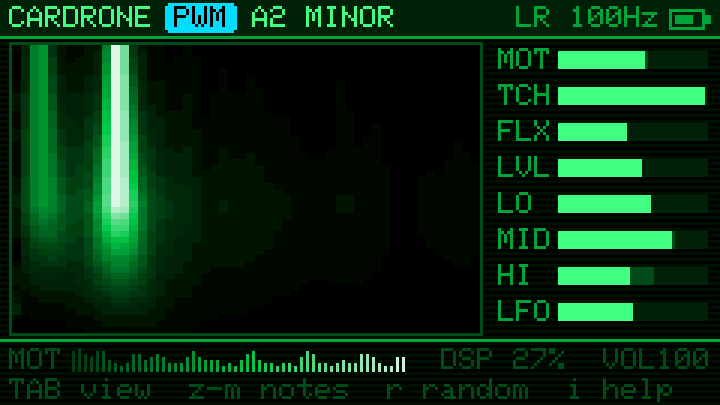
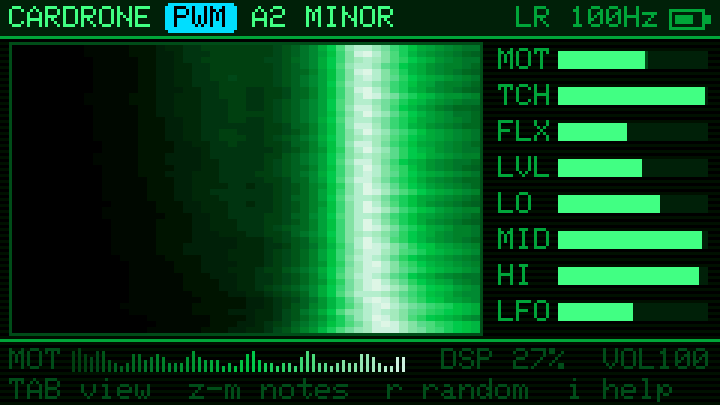
LoRa: wobble spectrum from 52 log-spaced bandpass filters (0.15-6 Hz), LO/MID/HI as its thirds
The 5 s DFT over 0.2-10 Hz lagged by seconds and spent most columns above where people
move the link; one shared scale let slow swells drown quick wobble. Now each column
reacts in ~0.2-2 s, quick columns are tilted up (x sqrt f), and HI (1.75-6 Hz) follows
walking within 0.5 s (host test).

diff --git a/src/csi.h b/src/csi.h
@@ -18,7 +18,10 @@ enum Src { S_MOT, S_PHS, S_FLX, S_RSSI, S_LO, S_MID, S_HI, S_LFO, NSRC };
 static const char* const SRC_NAME[NSRC] = {"MOT", "PHS", "FLX", "RSI", "LO", "MID", "HI", "LFO"};
 // LoRa mode: same slots, so the matrix and presets carry over (see level()).
 static const char* const SRC_NAME_LORA[NSRC] = {"MOT", "TCH", "FLX", "LVL", "LO", "MID", "HI", "LFO"};
-constexpr int LN = 256;             // LoRa wobble spectrum: the last 5 s of 50 Hz frames
+// LoRa wobble spectrum: one bandpass filter per waterfall column, log-spaced over the rates
+// people move a sub-GHz link at (breathing and swaying ... walking).
+constexpr float kWobLo = 0.15f, kWobHi = 6;  // Hz
+static inline float wobHz(int k) { return kWobLo * powf(kWobHi / kWobLo, k / (NSC - 1.f)); }
 constexpr float kLoraFloor = 0.5f;  // dB: wobble smaller than this never reads as full scale (RSSI steps are 0.5 dB)
 constexpr float kLvlRange = 6;       // dB away from the empty-room level that reads as full LVL
 constexpr float kTouchMin = 0.05f;   // touch rise (fraction of the untouched reading) that can read as full TCH
@@ -51,8 +54,7 @@ struct Csi {
   float phWin[32] = {};
   int phIdx = 0, phFill = 0;
   Norm nMot, nPhs, nFlx, nBand[NBAND];
-  float lv[4] = {}, env[NBAND] = {}, lvHist[LN] = {}, spec[NSC] = {}, specPeak = 0, tchHi = 0;  // LoRa
-  int lvIdx = 0;
+  float lvl = 0, bz1[NSC] = {}, bz2[NSC] = {}, benv[NSC] = {}, wobPeak = 0, tchHi = 0;  // LoRa
 
   // Empty-room baseline: LO/MID/HI then measure deviation from it instead of
   // from the slow running average. Cancel by zeroing calLeft.
@@ -127,58 +129,50 @@ struct Csi {
   // LoRa mode: one frame = the Heltec's packets in the last 20 ms, as their mean level
   // (dBm), plus its touch reading. No subcarriers and no phase, so the slots refill:
   // MOT, FLX as for CSI, from the level; PHS -> TCH, the touch; RSI -> LVL, the level,
-  // or once calibrated its distance from the empty room's; LO/MID/HI -> how fast the
-  // level wobbles: under 0.5 Hz (settling, doors), 0.5-2 Hz (gestures), 2-8 Hz
-  // (walking). prof becomes the wobble spectrum, 0.2-10 Hz.
+  // or once calibrated its distance from the empty room's. prof becomes the wobble
+  // spectrum, 0.15-6 Hz, and LO/MID/HI its thirds, as for CSI: under 0.5 Hz (settling,
+  // swaying), 0.5-1.75 Hz (gestures), 1.75-6 Hz (walking).
   void level(float dbm, float touch) {
-    static float cs[LN], sn[LN], win[LN];
-    if (!win[1])
-      for (int n = 0; n < LN; n++) {
-        cs[n] = cosf(6.2831853f * n / LN), sn[n] = sinf(6.2831853f * n / LN);
-        win[n] = 0.5f - 0.5f * cs[n];  // Hann
+    // Bandpass (Q 2: broad, but quick), its envelope's rate (~1.5 cycles, at most 2 s), and a
+    // tilt for the picture: motion has far less energy at quick rates, which would stay dark.
+    struct Bp { float b0, a1, a2, e, tilt; };
+    static Bp bp[NSC];
+    if (!bp[0].b0)
+      for (int k = 0; k < NSC; k++) {
+        float f = wobHz(k), w = 6.2831853f * f / 50, al = sinf(w) / 4, a0 = 1 + al;
+        bp[k] = {al / a0, -2 * cosf(w) / a0, (1 - al) / a0, 1 - expf(-0.02f / fminf(1.5f / f, 2)), sqrtf(f / kWobLo)};
       }
-    if (frames == 0) {
-      fast[0] = slow[0] = prev[0] = dbm;
-      for (float& v : lv) v = dbm;
-      for (float& h : lvHist) h = dbm;
-    }
+    if (frames == 0) fast[0] = slow[0] = prev[0] = lvl = dbm;
     fast[0] += (dbm - fast[0]) * 0.3f;
     slow[0] += (dbm - slow[0]) * 0.01f;
-    float flux = fabsf(dbm - prev[0]);
+    lvl += (dbm - lvl) * 0.06f;  // ~0.5 Hz
+    float flux = fabsf(dbm - prev[0]), x = dbm - slow[0], band[NBAND] = {}, cnt[NBAND] = {}, peak = 0;
     prev[0] = dbm;
-    // Speed bands: differences of one-pole lowpasses at 8, 2, 0.5 and 0.05 Hz. The slower
-    // the band, the slower its envelope, and the longer steady wobble takes to fade (C).
-    static const float A[4] = {0.634f, 0.222f, 0.0609f, 0.00626f}, E[NBAND] = {0.005f, 0.05f, 0.2f},
-                       C[NBAND] = {0.0005f, 0.001f, 0.002f};
-    for (int i = 0; i < 4; i++) lv[i] += (dbm - lv[i]) * A[i];
-    for (int j = 0; j < NBAND; j++) env[j] += (fabsf(lv[2 - j] - lv[3 - j]) - env[j]) * E[j];
-    if (calLeft > 0) base[0] += dbm / kCalFrames;
-    if (calLeft > 0 && --calLeft == 0) calibrated = true;
-
-    lvHist[lvIdx] = dbm;
-    lvIdx = (lvIdx + 1) % LN;
-    float x[LN], mean = 0, peak = 0;
-    for (float h : lvHist) mean += h;
-    mean /= LN;
-    for (int n = 0; n < LN; n++) x[n] = (lvHist[(lvIdx + n) % LN] - mean) * win[n];
-    for (int k = 0; k < NSC; k++) {  // bin k+1: (k+1) * 50/LN Hz
-      float re = 0, im = 0;
-      for (int n = 0, ph = 0; n < LN; n++, ph = (ph + k + 1) & (LN - 1)) re += x[n] * cs[ph], im += x[n] * sn[ph];
-      spec[k] += (sqrtf(re * re + im * im) * (4.f / LN) - spec[k]) * 0.3f;  // dB: a 1 dB sine reads ~1
-      peak = fmaxf(peak, spec[k]);
+    for (int k = 0; k < NSC; k++) {
+      const Bp& b = bp[k];
+      float y = b.b0 * x + bz1[k];
+      bz1[k] = -b.a1 * y + bz2[k];
+      bz2[k] = -b.b0 * x - b.a2 * y;
+      benv[k] += (fabsf(y) * 1.57f - benv[k]) * b.e;  // dB: a 1 dB wobble reads ~1
+      prof[k] = benv[k] * b.tilt;
+      peak = fmaxf(peak, prof[k]);
+      band[k * NBAND / NSC] += benv[k], cnt[k * NBAND / NSC]++;
     }
-    specPeak = fmaxf(peak, specPeak * 0.995f);
-    float span = fmaxf(specPeak, 2 * kLoraFloor);  // a still link stays dim
-    for (int k = 0; k < NSC; k++) prof[k] = spec[k] / span;
+    wobPeak = fmaxf(peak, wobPeak * 0.995f);  // one scale for all columns, easing down over ~4 s
+    float span = fmaxf(wobPeak, 2 * kLoraFloor);  // a still link stays dim
+    for (float& v : prof) v /= span;
     profLo = 0;
     profHi = span;
+    if (calLeft > 0) base[0] += dbm / kCalFrames;
+    if (calLeft > 0 && --calLeft == 0) calibrated = true;
 
     tchHi = fmaxf(touch, tchHi * 0.999f);  // the strongest recent touch reads as full, decaying over ~20 s
     src[S_MOT] += (nMot(fabsf(fast[0] - slow[0]), kLoraFloor) - src[S_MOT]) * 0.2f;
     src[S_PHS] += (clamp01(touch / fmaxf(tchHi, kTouchMin)) - src[S_PHS]) * 0.2f;
     src[S_FLX] += (nFlx(flux, kLoraFloor) - src[S_FLX]) * 0.2f;
-    src[S_RSSI] = calibrated ? clamp01(fabsf(lv[2] - base[0]) / kLvlRange) : clamp01((fast[0] + 100) / 60.f);
-    for (int j = 0; j < NBAND; j++) src[S_LO + j] += (nBand[j](env[j], kLoraFloor, C[j]) - src[S_LO + j]) * 0.2f;
+    src[S_RSSI] = calibrated ? clamp01(fabsf(lvl - base[0]) / kLvlRange) : clamp01((fast[0] + 100) / 60.f);
+    static const float C[NBAND] = {0.0005f, 0.001f, 0.002f};  // the slower the band, the longer steady wobble takes to fade
+    for (int j = 0; j < NBAND; j++) src[S_LO + j] += (nBand[j](band[j] / cnt[j], kLoraFloor, C[j]) - src[S_LO + j]) * 0.2f;
     rssi = (int)dbm;
     frames = frames + 1;
   }

diff --git a/test/host_test.cpp b/test/host_test.cpp
@@ -112,13 +112,16 @@ int main(int argc, char** argv) {
     printf("lora: still MOT %.2f FLX %.2f HI %.2f  sway LO %.2f MID %.2f HI %.2f\n", sMot, sFlx, sHi, c.src[S_LO],
            c.src[S_MID], c.src[S_HI]);
     assert(sMot < 0.35f && sHi < 0.35f && c.src[S_LO] > 0.5f && c.src[S_LO] > c.src[S_HI] + 0.3f);
-    link(-62, 4, 3, 0, 250);  // 5 s walking: 4 dB fades at 3 Hz
+    int react = -1;  // 5 s walking: 4 dB fades at 3 Hz; HI must follow within half a second
+    for (int f = 0; f < 250; f++)
+      if (link(-62, 4, 3, 0, 1), react < 0 && c.src[S_HI] > 0.5f) react = f;
     int pk = 0;
     for (int k = 1; k < NSC; k++)
-      if (c.prof[k] > c.prof[pk]) pk = k;
-    printf("lora: walking MOT %.2f FLX %.2f HI %.2f  peak %.1f Hz\n", c.src[S_MOT], c.src[S_FLX], c.src[S_HI], (pk + 1) * 50.f / LN);
+      if (c.benv[k] > c.benv[pk]) pk = k;
+    printf("lora: walking MOT %.2f FLX %.2f HI %.2f  peak %.1f Hz\n", c.src[S_MOT], c.src[S_FLX], c.src[S_HI], wobHz(pk));
     assert(c.src[S_MOT] > sMot + 0.3f && c.src[S_FLX] > sFlx + 0.3f && c.src[S_HI] > 0.6f);
-    assert(fabsf((pk + 1) * 50.f / LN - 3) < 0.5f);
+    assert(fabsf(wobHz(pk) - 3) < 0.5f && c.prof[pk] > 0.8f);  // the walking rate lights up
+    assert(react >= 0 && react * 20 < 500);
     link(-62, 0, 0, 0.3f, 50);
     assert(c.src[S_PHS] > 0.9f);  // TCH
     link(-62, 0, 0, 0, 50);

diff --git a/README.md b/README.md
@@ -19,7 +19,7 @@ Rendered by the firmware's own drawing code from a simulated room, in which some
 | <img src="docs/cal_countdown.png" width="360" alt="Calibration countdown"> | <img src="docs/cal_capture.png" width="360" alt="Calibration capture"> |
 | **Calibrate** (`e`): 5 s to leave the room… | …then the empty room is captured. Any key cancels. |
 | <img src="docs/lora.png" width="360" alt="LoRa mode"> | |
-| **LoRa mode**: the waterfall becomes the link's wobble spectrum (0.2 Hz left, 10 Hz right): someone walking lights it up. TCH and LVL take PHS's and RSI's places. | |
+| **LoRa mode**: the waterfall becomes the link's wobble spectrum (0.15 Hz left, 6 Hz right, log-spaced): someone walking lights it up. TCH and LVL take PHS's and RSI's places. | |
 
 ## Build / flash
 
@@ -111,9 +111,9 @@ The Cardputer reads ~60–100 beacons a second: it skips the ones that arrive wh
 | PHS → **TCH** | the Heltec's touch pins GPIO2–7: a fingertip on a bare header pin; a wire or foil on one senses a hand a few cm away | you, playing it |
 | FLX | packet-to-packet change of the level | walking, fast movement |
 | RSI → **LVL** | the level (−100 to −40 dBm); after `e`, its distance from the empty flat's level (6 dB = full) | someone being there, doors, standing in the path |
-| LO / MID / HI | how fast the level wobbles: under 0.5 Hz, 0.5–2 Hz, 2–8 Hz | settling and doors / gestures / walking |
+| LO / MID / HI | thirds of the wobble spectrum: 0.15–0.5 Hz, 0.5–1.75 Hz, 1.75–6 Hz | settling and swaying / gestures / walking |
 
-The waterfall and the ORG engine's partials follow the wobble spectrum (0.2–10 Hz) instead of the subcarriers. Place the two boards so people pass between them; a body in the direct path makes the biggest change.
+The waterfall and the ORG engine's partials follow the wobble spectrum instead of the subcarriers: 52 bandpass filters, log-spaced from 0.15 to 6 Hz (where people move a sub-GHz link), quicker columns boosted (×√f) since motion has far less energy at quick rates. Fast columns react in ~0.2 s, the slowest within ~2 s. The MOD PROFILE (options) adds its own glide on top: NORMAL or SHARP feel immediate. Place the two boards so people pass between them; a body in the direct path makes the biggest change.
 
 ## Mod sources (from CSI)
 

diff --git a/manual.md b/manual.md
@@ -37,7 +37,7 @@ Press **Tab** to cycle through four pages.
 
 ### 1. Waterfall
 
-A picture of the WiFi signal over time. Each column is one of 52 slices of the WiFi channel, and new readings appear at the top and scroll down. Bright means strong, dark means weak. When the room is still, the waterfall forms steady vertical stripes; when people move, the stripes wobble and smear. In LoRa mode it shows something else: how fast the link is wobbling, from slow (left) to quick (right). A still flat is dark; someone walking lights up a band in the middle.
+A picture of the WiFi signal over time. Each column is one of 52 slices of the WiFi channel, and new readings appear at the top and scroll down. Bright means strong, dark means weak. When the room is still, the waterfall forms steady vertical stripes; when people move, the stripes wobble and smear. In LoRa mode it shows something else: how fast the link is wobbling, from slow swells (left, a few seconds per wobble) to quick flicker (right, six a second). A still flat is dark; someone walking lights up the right half.
 
 On the right are live meters for the eight **mod sources** (explained below). The dim bar behind each meter is a fading memory of its recent peak.
 
@@ -96,7 +96,7 @@ The LoRa link gives one number per packet (how strongly it arrived), not 52 slic
 | **MOT**, **FLX** | As above, from the link's strength. Reaches through walls: the whole flat, not just the room. |
 | **TCH** (touch, in PHS's place) | A finger on one of the Heltec's touch pins (GPIO2 to GPIO7: check the pin labels or Heltec's pin diagram). A wire or a piece of foil on the pin senses a hand from a few cm away, like a small theremin. Rises from 0 to 1 with how much you touch. |
 | **LVL** (level, in RSI's place) | How strong the link is. After calibrating: how far it is from the empty flat's level, so it reads "someone is here". |
-| **LO / MID / HI** | How fast the link wobbles: slow (people settling, doors), medium (gestures, swaying), fast (walking). |
+| **LO / MID / HI** | The left, middle and right third of the waterfall: slow wobble (people settling, swaying, doors), medium (gestures), fast (walking). |
 
 ### Calibrating
 
